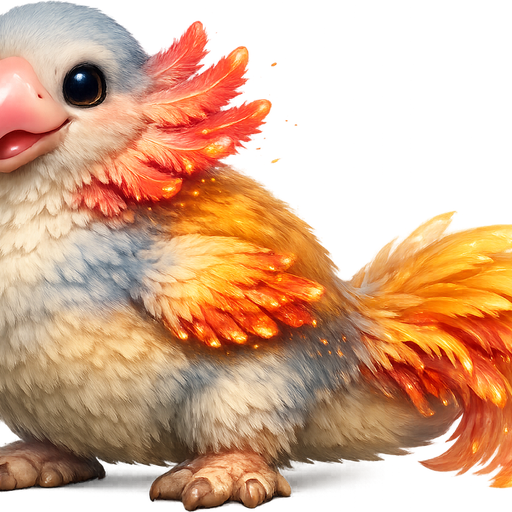
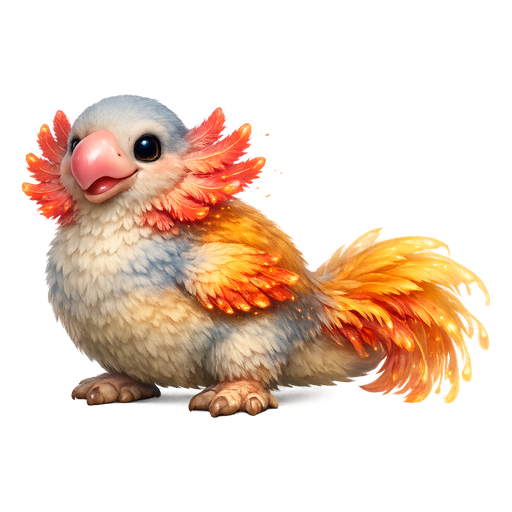
Playtest feedback round 1: header, sort, thumbs, PWA, honest status
- Header: fake-currency chips removed; Henry's avatar is a real headshot
  crop with an XP progress ring toward next level (the one number that
  means something). Alphabetical sort in the lab picker rail.
- Thumbs: square FIT (letterboxed alpha bbox) instead of square crop —
  wide creatures (serpent coils, wingspans) no longer chopped at the card
  edge. All seed + media thumbs regenerated.
- FusionWait: status line no longer claims RENDER COMPLETE while the
  browser is still fetching the hero (heroReady, not image_status).
- PWA: favicon, apple-touch-icon, manifest (standalone, landscape) — saves
  to an iPad home screen with a proper icon.
- Boot now logs a loud warning when no OPEN_AI_API_KEY is found (the
  playtest worktree silently ran stub AI — never again silent).

diff --git a/frontend/src/theme.css b/frontend/src/theme.css
@@ -889,45 +889,29 @@ h1, h2, h3 { margin: 0; font-family: var(--font-display); font-weight: 700; }
 .nav__tab.is-active .nav__icon { filter: var(--tint) drop-shadow(0 0 8px rgba(79, 216, 255, 0.9)); }
 
 .player { display: flex; align-items: center; justify-content: flex-end; gap: 12px; }
-.player__chips { display: flex; gap: 8px; }
-.chip {
-  display: inline-flex;
-  align-items: center;
-  gap: 7px;
-  min-height: 38px;
-  padding: 0 13px;
-  clip-path: var(--clip-notch-sm);
-  --notch-sm: 7px;
-  background: linear-gradient(180deg, rgba(20, 30, 66, 0.9), rgba(7, 11, 28, 0.92));
-  box-shadow: inset 0 0 0 1px rgba(var(--accent-rgb), 0.4);
-  font-family: var(--font-display);
-  font-weight: 700;
-  font-size: 16px;
-  letter-spacing: 0.04em;
-  color: #eaf4ff;
+/* Avatar disc wrapped by the level-progress ring: the ring fills as Henry
+   earns XP toward the next level — the header's one number that MEANS
+   something (no fake currencies). */
+.player__badge { position: relative; width: 54px; height: 54px; flex: none; }
+.player__ring { position: absolute; inset: 0; transform: rotate(-90deg); }
+.player__ring circle { fill: none; stroke-width: 3; }
+.player__ring-track { stroke: rgba(79, 216, 255, 0.18); }
+.player__ring-fill {
+  stroke: url(#xpRingGrad);
+  stroke: var(--cyan);
+  stroke-linecap: round;
+  filter: drop-shadow(0 0 4px rgba(79, 216, 255, 0.7));
+  transition: stroke-dasharray 600ms ease;
 }
-.chip--purple { --accent-rgb: 168, 107, 255; }
-.chip .chip__icon { width: 21px; height: 21px; flex: none; }
-/* The painted avatar is a full-body figure, so the disc zooms its head in. */
 .player__avatar {
-  position: relative;
-  width: 48px;
-  height: 48px;
-  flex: none;
+  position: absolute;
+  inset: 5px;
   border-radius: 50%;
   overflow: hidden;
   background: radial-gradient(circle at 50% 32%, rgba(79, 216, 255, 0.34), rgba(8, 13, 32, 0.96));
-  box-shadow: 0 0 0 2px var(--cyan), 0 0 18px rgba(79, 216, 255, 0.55);
+  box-shadow: 0 0 14px rgba(79, 216, 255, 0.45);
 }
-.player__avatar .asset {
-  position: absolute;
-  left: 50%;
-  top: 0;
-  width: 230%;
-  height: 230%;
-  max-width: none;
-  transform: translate(-50%, 8%);
-}
+.player__avatar .asset { width: 100%; height: 100%; object-fit: cover; }
 .player__id { display: grid; gap: 1px; }
 .player__name { font-family: var(--font-display); font-weight: 700; font-size: 16px; letter-spacing: 0.11em; line-height: 1.05; color: var(--cyan); }
 .player__level { font-family: var(--font-display); font-weight: 600; font-size: 13px; letter-spacing: 0.12em; color: var(--muted); line-height: 1.05; }

diff --git a/frontend/src/App.tsx b/frontend/src/App.tsx
@@ -142,18 +142,23 @@ export default function App() {
           </nav>
 
           <div className="player">
-            <div className="player__chips">
-              <span className="chip chip--purple">
-                <Asset slot="icons/xp" label="" className="chip__icon" tint="purple" />
-                <b className="num">{profile?.xp ?? 0}</b>
+            <span
+              className="player__badge"
+              title={`${200 - ((profile?.xp ?? 0) % 200)} XP to level ${(profile?.level ?? 1) + 1}`}
+            >
+              <svg className="player__ring" viewBox="0 0 58 58" aria-hidden="true">
+                <circle className="player__ring-track" cx="29" cy="29" r="26" />
+                <circle
+                  className="player__ring-fill"
+                  cx="29"
+                  cy="29"
+                  r="26"
+                  strokeDasharray={`${(((profile?.xp ?? 0) % 200) / 200) * 163.36} 163.36`}
+                />
+              </svg>
+              <span className="player__avatar">
+                <Asset slot="ui/avatar" label="" />
               </span>
-              <span className="chip">
-                <Asset slot="icons/creatures" label="" className="chip__icon" />
-                <b className="num">{profile?.total_creatures ?? 0}</b>
-              </span>
-            </div>
-            <span className="player__avatar">
-              <Asset slot="ui/avatar" label="" />
             </span>
             <div className="player__id">
               <div className="player__name">{(profile?.name ?? "player").toUpperCase()}</div>

diff --git a/frontend/index.html b/frontend/index.html
@@ -4,6 +4,12 @@
     <meta charset="UTF-8" />
     <meta name="viewport" content="width=device-width, initial-scale=1, viewport-fit=cover" />
     <meta name="theme-color" content="#070a18" />
+    <link rel="icon" type="image/png" href="/icons/favicon.png" />
+    <link rel="apple-touch-icon" href="/icons/apple-touch-icon.png" />
+    <link rel="manifest" href="/manifest.webmanifest" />
+    <meta name="apple-mobile-web-app-capable" content="yes" />
+    <meta name="apple-mobile-web-app-status-bar-style" content="black-translucent" />
+    <meta name="apple-mobile-web-app-title" content="Chimera" />
     <title>Chimera Creator</title>
   </head>
   <body>

diff --git a/frontend/src/FusionLab.tsx b/frontend/src/FusionLab.tsx
@@ -102,10 +102,12 @@ export function FusionLab({ go }: { go: Go }) {
 
   const visible = useMemo(() => {
     const q = query.trim().toLowerCase();
-    return (sources ?? []).filter((s) => {
-      if (!q && activeCategory !== "all" && s.category !== activeCategory) return false;
-      return !q || haystack(s).includes(q);
-    });
+    return (sources ?? [])
+      .filter((s) => {
+        if (!q && activeCategory !== "all" && s.category !== activeCategory) return false;
+        return !q || haystack(s).includes(q);
+      })
+      .sort((a, b) => a.name.localeCompare(b.name));
   }, [sources, activeCategory, query]);
 
   useEffect(() => {

diff --git a/frontend/src/FusionWait.tsx b/frontend/src/FusionWait.tsx
@@ -386,11 +386,13 @@ export function FusionWait({
           ))}
         </div>
         <p className="fw__status">
-          {imageDone
+          {heroReady
             ? "RENDER COMPLETE"
-            : recordDone
-              ? "PAINTING THE HERO RENDER — THIS IS THE SLOW, GOOD BIT"
-              : "READING THE FUSED GENOME"}
+            : imageDone
+              ? "DOWNLOADING THE FINISHED RENDER"
+              : recordDone
+                ? "PAINTING THE HERO RENDER — THIS IS THE SLOW, GOOD BIT"
+                : "READING THE FUSED GENOME"}
         </p>
       </footer>
     </div>

diff --git a/frontend/src/ui.tsx b/frontend/src/ui.tsx
@@ -12,7 +12,8 @@ import type { CoreStats, CreatureSummary } from "./api";
    line here. Anything unlisted resolves straight to /assets/<slot>.png. */
 const SLOT_ALIASES: Record<string, string> = {
   "ui/logo": "ui/logo_mark",
-  "ui/avatar": "avatar/henry_a",
+  "ui/avatar": "avatar/henry_headshot",
+  "ui/avatar_full": "avatar/henry_a",
   "ui/tbd": "ui/slot_empty",
   "ui/mascot": "lab/mascot",
 

diff --git a/backend/app/services/images.py b/backend/app/services/images.py
@@ -92,19 +92,25 @@ async def generate_hero(creature: Creature) -> str | None:
 
 
 def _thumb_from_hero_bytes(hero_png: bytes) -> bytes:
-    """Alpha-aware square crop biased toward the creature's head (top third)."""
+    """Alpha-aware square FIT: the whole creature, never a crop.
+
+    A square crop chopped wide creatures (wings, serpent coils) at the card
+    edge. Instead: tight alpha bbox, then letterbox onto a transparent square
+    with a small margin so every silhouette reads complete in the Codex.
+    """
     from PIL import Image
 
     img = Image.open(io.BytesIO(hero_png)).convert("RGBA")
     bbox = img.getchannel("A").point(lambda a: 255 if a > 20 else 0).getbbox()
     if bbox:
         img = img.crop(bbox)
-    side = min(img.width, img.height)
-    left = (img.width - side) // 2
-    img = img.crop((left, 0, left + side, side))
-    img = img.resize((THUMB_PX, THUMB_PX), Image.LANCZOS)
+    side = max(img.width, img.height)
+    margin = max(2, side // 25)
+    canvas = Image.new("RGBA", (side + 2 * margin,) * 2, (0, 0, 0, 0))
+    canvas.paste(img, ((canvas.width - img.width) // 2, (canvas.height - img.height) // 2))
+    canvas = canvas.resize((THUMB_PX, THUMB_PX), Image.LANCZOS)
     out = io.BytesIO()
-    img.save(out, "PNG")
+    canvas.save(out, "PNG")
     return out.getvalue()
 
 

diff --git a/backend/app/main.py b/backend/app/main.py
@@ -25,6 +25,13 @@ async def lifespan(app: FastAPI):
         await create_all()
     # Authored content is optional at boot — load_library logs and shrugs.
     library_svc.load_library()
+    from .services import ai
+    if not ai.ai_enabled():
+        logging.getLogger("chimera").warning(
+            "AI DISABLED — no OPEN_AI_API_KEY found (looked in %s). Creatures "
+            "will be STUB records with no hero renders. This is never what you "
+            "want outside tests.", "repo-root .env / environment",
+        )
     await _sweep_orphans()
     await _seed_starter_crew()
     yield
